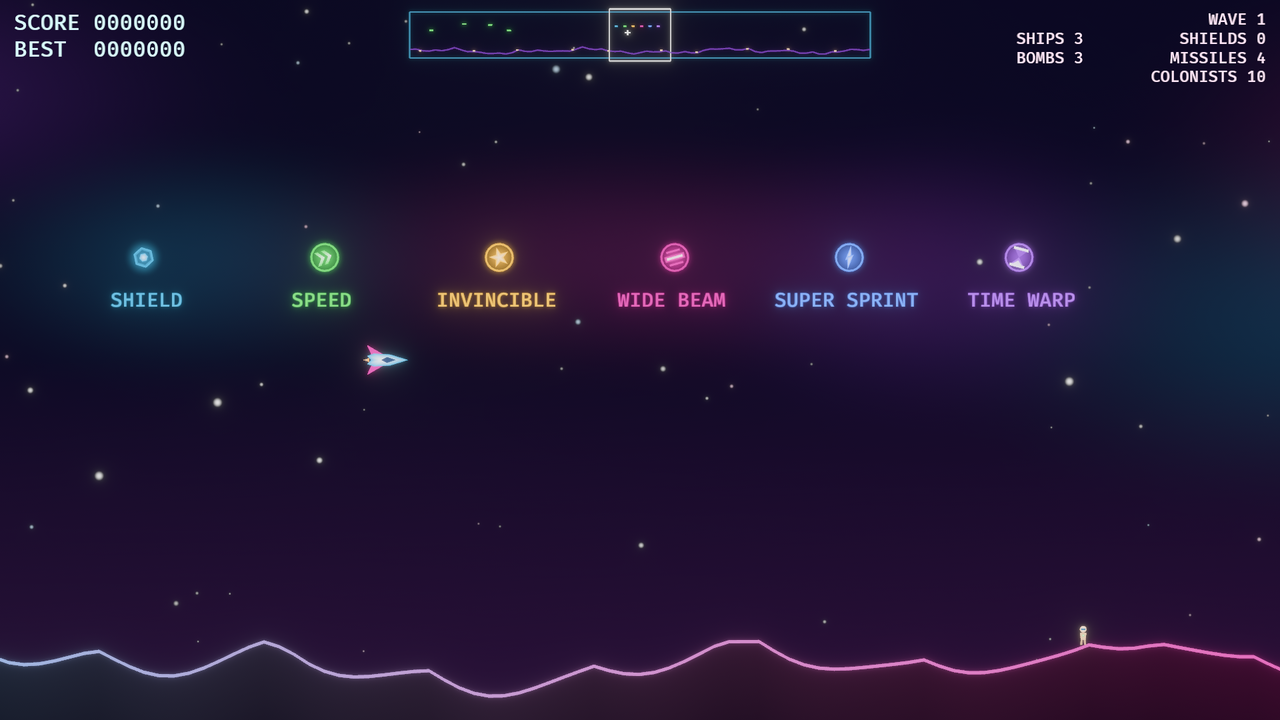
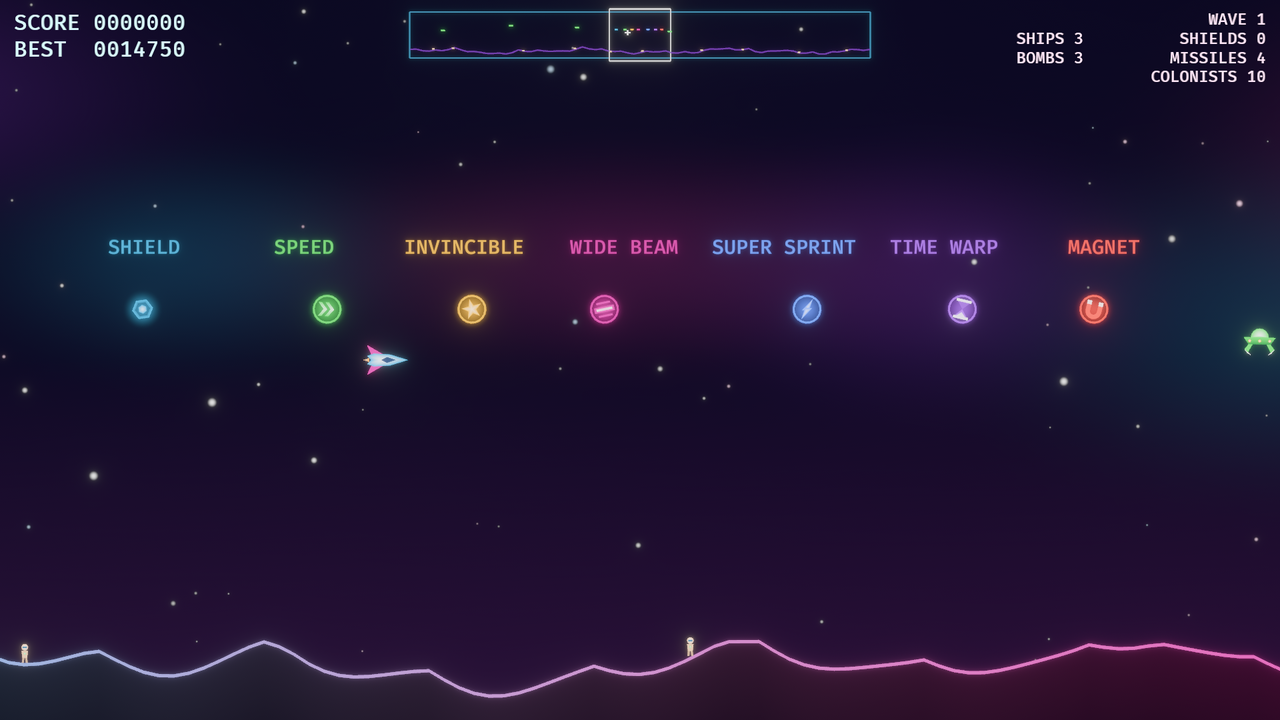
Add a magnet powerup that pulls in pickups and colonists

diff --git a/src/colonists.rs b/src/colonists.rs
@@ -77,6 +77,9 @@ pub fn update_colonists(
     let set_down_each = SET_DOWN_POINTS * aboard.min(CARRY_BONUS_MAX);
     let mut landed = 0;
     let mut carried = 0;
+    let magnet = ps.alive && game.power_on(Power::Magnet);
+    let ship = ps.pos;
+    let in_reach = |p: Vec2| magnet && delta(p, ship).length() < MAGNET_REACH;
     for (e, mut c, mut pos, mut tf) in &mut q {
         c.t += dt;
         if c.claimed_by.is_some_and(|h| enemies.get(h).is_err()) {
@@ -95,9 +98,18 @@ pub fn update_colonists(
                 tf.scale.x = c.dir;
             }
             CState::Abducted(h) => match enemies.get(h) {
-                Ok(hpos) => {
+                Ok(hpos) if !in_reach(pos.0) => {
                     pos.0 = hpos.0 + Vec2::new(0.0, -24.0);
                     tilt = (c.t * 14.0).sin() * 0.25;
+                }
+                Ok(_) => {
+                    // Snatched from the Harvester by the magnet; it then pulls them in.
+                    c.state = CState::Falling;
+                    c.claimed_by = None;
+                    c.fall_from = pos.0.y;
+                    c.vy = 0.0;
+                    fx.write(Fx::new(pos.0, C_RED, FxKind::Rescue));
+                    sfx.write(Sfx::Rescue);
                 }
                 Err(_) => {
                     // The captor was destroyed: start falling.
@@ -108,8 +120,19 @@ pub fn update_colonists(
                 }
             },
             CState::Falling => {
-                c.vy = (c.vy - 420.0 * dt).max(-FALL_SPEED);
-                pos.0.y += c.vy * dt;
+                if in_reach(pos.0) {
+                    // Pulled straight at the ship; if the magnet runs out, the fall starts
+                    // again from here.
+                    let to_ship = delta(pos.0, ps.pos);
+                    let step =
+                        to_ship.normalize_or_zero() * (MAGNET_PULL * dt).min(to_ship.length());
+                    pos.0 = Vec2::new(wrap(pos.0.x + step.x), pos.0.y + step.y);
+                    c.vy = 0.0;
+                    c.fall_from = pos.0.y;
+                } else {
+                    c.vy = (c.vy - 420.0 * dt).max(-FALL_SPEED);
+                    pos.0.y += c.vy * dt;
+                }
                 tilt = c.t * 5.0;
                 if ps.alive && delta(pos.0, ps.pos).length() < 30.0 {
                     c.state = CState::Carried;
@@ -270,6 +293,43 @@ mod tests {
         step(&mut w);
         assert_eq!(state(&w, e), Some(CState::Falling));
         assert_eq!(w.get::<Colonist>(e).unwrap().fall_from, 120.0);
+    }
+
+    #[test]
+    fn a_magnet_snatches_a_colonist_and_pulls_them_in_but_leaves_walkers() {
+        let mut w = world(Vec2::new(X, 400.0));
+        w.resource_mut::<Game>().grant_power(Power::Magnet);
+        w.insert_resource(Time::<()>::default());
+        let harvester = Enemy {
+            kind: crate::enemies::Kind::Harvester,
+            elite: false,
+            hp: 1,
+            radius: 20.0,
+            warp: 0.0,
+            t: 0.0,
+            fire_cd: 9.0,
+            ai: crate::enemies::Ai::Rise,
+            target: None,
+            aim: Vec2::ZERO,
+            timer: 0.0,
+            hit: 0.0,
+        };
+        let captor = w.spawn((harvester, Pos(Vec2::new(X, 224.0)))).id();
+        let held = colonist(&mut w, CState::Abducted(captor), 200.0, 0.0);
+        let walker = colonist(&mut w, CState::Walking, terrain::height(X) + 9.0, 0.0);
+        step(&mut w);
+        assert_eq!(state(&w, held), Some(CState::Falling), "snatched");
+        assert_eq!(state(&w, walker), Some(CState::Walking));
+
+        // Pulled up to the ship and caught, despite gravity.
+        let mut time = Time::<()>::default();
+        for _ in 0..60 {
+            time.advance_by(std::time::Duration::from_millis(16));
+            w.insert_resource(time);
+            step(&mut w);
+        }
+        assert_eq!(state(&w, held), Some(CState::Carried));
+        assert_eq!(state(&w, walker), Some(CState::Walking));
     }
 
     #[test]

diff --git a/src/meshes.rs b/src/meshes.rs
@@ -191,6 +191,8 @@ pub struct Art {
     pub shield: Handle<Mesh>,
     /// Falling powerup capsules, indexed by `Power as usize`.
     pub power: [Handle<Mesh>; Power::COUNT],
+    /// Dashed circle around the ship showing the magnet's reach.
+    pub magnet_ring: Handle<Mesh>,
 }
 
 fn dim(c: LinearRgba, f: f32) -> LinearRgba {
@@ -515,6 +517,43 @@ fn power(p: Power) -> Mesh {
             s.poly(&[(-6.0, -7.2), (6.0, -7.2), (0.0, 0.0)], c);
             s.poly(&[(-4.5, -7.2), (4.5, -7.2), (0.0, -3.0)], w);
         }
+        // Horseshoe magnet, open end up, with white pole tips.
+        Power::Magnet => {
+            let (cy, r0, r1) = (-2.0, 3.5, 8.0);
+            let p = |a: f32, r: f32| (a.cos() * r, cy + a.sin() * r);
+            let n = 8;
+            for i in 0..n {
+                let a0 = PI + i as f32 / n as f32 * PI;
+                let a1 = PI + (i + 1) as f32 / n as f32 * PI;
+                s.quad([p(a0, r0), p(a0, r1), p(a1, r1), p(a1, r0)], [c, c, c, c]);
+            }
+            for (x0, x1) in [(-r1, -r0), (r0, r1)] {
+                s.quad([(x0, cy), (x1, cy), (x1, 4.0), (x0, 4.0)], [c, c, c, c]);
+                s.quad([(x0, 4.0), (x1, 4.0), (x1, 8.0), (x0, 8.0)], [w, w, w, w]);
+            }
+        }
+    }
+    s.build()
+}
+
+/// Dashed circle of radius `MAGNET_REACH`, drawn around the ship while the magnet is on.
+fn magnet_ring() -> Mesh {
+    const DASHES: usize = 40;
+    let c = dim(C_RED, 0.35);
+    let mut s = Shape::default();
+    for i in 0..DASHES {
+        let a0 = i as f32 / DASHES as f32 * TAU;
+        let a1 = a0 + 0.55 * TAU / DASHES as f32;
+        let p = |a: f32, r: f32| (a.cos() * r, a.sin() * r);
+        s.quad(
+            [
+                p(a0, MAGNET_REACH - 1.5),
+                p(a0, MAGNET_REACH + 1.5),
+                p(a1, MAGNET_REACH + 1.5),
+                p(a1, MAGNET_REACH - 1.5),
+            ],
+            [c, c, c, c],
+        );
     }
     s.build()
 }
@@ -581,5 +620,6 @@ pub fn setup_art(
         stalker,
         shield: meshes.add(shield()),
         power: Power::ALL.map(|p| meshes.add(power(p))),
+        magnet_ring: meshes.add(magnet_ring()),
     });
 }

diff --git a/src/player.rs b/src/player.rs
@@ -21,6 +21,10 @@ pub struct Player {
 #[derive(Component)]
 pub struct Flame;
 
+/// The dashed circle around the ship showing the magnet's reach.
+#[derive(Component)]
+pub struct MagnetRing;
+
 /// A snapshot of the ship that other systems (enemy AI, camera, colonists) read, so they do not
 /// need to query the player entity.
 #[derive(Resource)]
@@ -110,6 +114,45 @@ pub fn spawn_player(commands: &mut Commands, art: &Art, pos: Vec2, facing: f32, 
             Transform::from_xyz(-15.0, 0.0, -0.1),
         )],
     ));
+}
+
+/// Shows the magnet's reach while it is on: a slowly turning, gently pulsing dashed circle that
+/// blinks in the magnet's last seconds, like its HUD timer. It is its own entity rather than a
+/// child of the ship, so the ship's flip when it turns does not squash it.
+pub fn show_magnet_ring(
+    time: Res<Time>,
+    game: Res<Game>,
+    ps: Res<PlayerState>,
+    art: Res<Art>,
+    mut commands: Commands,
+    mut q: Query<(&mut Pos, &mut Visibility, &mut Transform), With<MagnetRing>>,
+) {
+    let left = game.powers[Power::Magnet as usize];
+    let t = time.elapsed_secs();
+    let blink_off = left < POWER_WARN && (t * 6.0).fract() < 0.5;
+    if q.is_empty() {
+        commands.spawn((
+            MagnetRing,
+            GameEntity,
+            Pos(ps.pos),
+            Mesh2d(art.magnet_ring.clone()),
+            MeshMaterial2d(art.mat.clone()),
+            // Just in front of the terrain, behind everything else.
+            Transform::from_xyz(0.0, ps.pos.y, Z_TERRAIN + 1.0),
+            Visibility::Hidden,
+        ));
+    }
+    for (mut pos, mut vis, mut tf) in &mut q {
+        pos.0 = ps.pos;
+        let on = ps.alive && left > 0.0 && !blink_off;
+        vis.set_if_neq(if on {
+            Visibility::Inherited
+        } else {
+            Visibility::Hidden
+        });
+        tf.rotation = Quat::from_rotation_z(t * 0.25);
+        tf.scale = Vec3::splat(1.0 + 0.012 * (t * 4.0).sin());
+    }
 }
 
 pub fn player_control(

diff --git a/src/pickups.rs b/src/pickups.rs
@@ -119,9 +119,15 @@ pub fn update_pickups(
 ) {
     let dt = time.delta_secs();
     let playing = *state.get() == GameState::Playing;
+    let magnet = playing && ps.alive && game.power_on(Power::Magnet);
     for (e, mut s, pos, mut vel, mut tf) in &mut q {
         s.t += dt;
-        vel.0.x = (s.t * 1.7 + s.sway).sin() * 22.0;
+        let to_ship = delta(pos.0, ps.pos);
+        if magnet && to_ship.length() < MAGNET_REACH {
+            vel.0 = to_ship.normalize_or_zero() * MAGNET_PULL;
+        } else {
+            vel.0 = Vec2::new((s.t * 1.7 + s.sway).sin() * 22.0, -SHIELD_FALL);
+        }
         // Shields spin; powerups only rock, so their symbols stay readable.
         let angle = match s.kind {
             PickupKind::Shield => s.t * 1.3,
@@ -255,6 +261,24 @@ mod tests {
         assert!(g.power_on(Power::WideBeam));
         assert!(!g.power_on(Power::Speed));
         assert_eq!(g.shields, 0);
+    }
+
+    #[test]
+    fn a_magnet_pulls_pickups_in() {
+        let mut w = world(Vec2::new(X, 300.0));
+        let near = shield(&mut w, Vec2::new(X + 200.0, 300.0));
+        let far = shield(&mut w, Vec2::new(X + MAGNET_REACH + 50.0, 300.0));
+        step(&mut w);
+        assert_eq!(
+            w.get::<Vel>(near).unwrap().0.y,
+            -SHIELD_FALL,
+            "no magnet, no pull"
+        );
+        w.resource_mut::<Game>().grant_power(Power::Magnet);
+        step(&mut w);
+        let v = w.get::<Vel>(near).unwrap().0;
+        assert!((v - Vec2::new(-MAGNET_PULL, 0.0)).length() < 0.01, "{v}");
+        assert_eq!(w.get::<Vel>(far).unwrap().0.y, -SHIELD_FALL, "out of reach");
     }
 
     #[test]

diff --git a/src/dev.rs b/src/dev.rs
@@ -6,7 +6,7 @@
 //! `STARWARDEN_DEMO_CARRY=1` instead clears the enemies, knocks three colonists loose high up,
 //! catches them, carries them for a while and sets them down together (use about 22 seconds).
 //! `STARWARDEN_DEMO_POWER=1` drops each powerup in turn near the ship, one every 6 seconds from
-//! 3 s, for the pilot to catch (use about 36 seconds). With `STARWARDEN_DEMO_GALLERY=1` as well,
+//! 3 s, for the pilot to catch (use about 42 seconds). With `STARWARDEN_DEMO_GALLERY=1` as well,
 //! it instead lines up a shield and every powerup, each named, above an idle ship.
 //! It does nothing unless the variable is set.
 
@@ -98,7 +98,7 @@ fn demo(
             let kinds = std::iter::once(PickupKind::Shield)
                 .chain(Power::ALL.into_iter().map(PickupKind::Power));
             for (i, kind) in kinds.enumerate() {
-                let at = ps.pos + Vec2::new(ps.facing * 200.0 + (i as f32 - 2.5) * 175.0, 110.0);
+                let at = ps.pos + Vec2::new(ps.facing * 240.0 + (i as f32 - 3.0) * 160.0, 110.0);
                 let name = match kind {
                     PickupKind::Shield => {
                         spawn_shield(&mut commands, &art, &mut rng, at);

diff --git a/src/state.rs b/src/state.rs
@@ -73,16 +73,18 @@ pub enum Power {
     WideBeam,
     SuperSprint,
     TimeWarp,
+    Magnet,
 }
 
 impl Power {
-    pub const COUNT: usize = 5;
+    pub const COUNT: usize = 6;
     pub const ALL: [Power; Power::COUNT] = [
         Power::Speed,
         Power::Invincible,
         Power::WideBeam,
         Power::SuperSprint,
         Power::TimeWarp,
+        Power::Magnet,
     ];
 
     pub fn name(self) -> &'static str {
@@ -92,6 +94,7 @@ impl Power {
             Power::WideBeam => "WIDE BEAM",
             Power::SuperSprint => "SUPER SPRINT",
             Power::TimeWarp => "TIME WARP",
+            Power::Magnet => "MAGNET",
         }
     }
 
@@ -102,6 +105,7 @@ impl Power {
             Power::WideBeam => C_MAGENTA,
             Power::SuperSprint => C_BLUE,
             Power::TimeWarp => C_VIOLET,
+            Power::Magnet => C_RED,
         }
     }
 

diff --git a/src/consts.rs b/src/consts.rs
@@ -95,6 +95,11 @@ pub const SUPER_SPRINT_BOOST: f32 = 2.0;
 pub const WIDE_BEAM: f32 = 4.0;
 /// Speed enemies and their shots run at during a time warp.
 pub const TIME_WARP: f32 = 0.4;
+/// Distance within which the magnet pulls in falling pickups and colonists, and snatches
+/// colonists from Harvesters.
+pub const MAGNET_REACH: f32 = 300.0;
+/// Speed at which the magnet pulls things toward the ship.
+pub const MAGNET_PULL: f32 = 420.0;
 /// Seconds before the end of a powerup when its HUD timer starts to blink.
 pub const POWER_WARN: f32 = 2.0;
 

diff --git a/src/main.rs b/src/main.rs
@@ -181,6 +181,7 @@ fn main() {
             (fx::spawn_fx, fx::update_particles, fx::update_popups)
                 .chain()
                 .run_if(simulating),
+            player::show_magnet_ring,
             world::sync_transforms,
             fx::draw_glows,
             world::camera_shake,

diff --git a/src/enemies.rs b/src/enemies.rs
@@ -562,6 +562,7 @@ mod tests {
             stalker: pair(),
             shield: Handle::default(),
             power: Default::default(),
+            magnet_ring: Handle::default(),
         }
     }
 

diff --git a/README.md b/README.md
@@ -52,8 +52,13 @@ and their seconds left are shown under the score. They are lost with the ship.
 | WIDE BEAM    | three bars      | magenta | a much taller laser that passes through enemies     |
 | SUPER SPRINT | lightning bolt  | blue    | sprint never runs out and is faster still           |
 | TIME WARP    | hourglass       | violet  | enemies and their shots move at 40% speed           |
+| MAGNET       | horseshoe       | red     | pulls in nearby pickups and colonists (see below)   |
 
-![A shield and the five powerups, each named](docs/powerups.png)
+The magnet's reach is shown as a dashed red circle around the ship. Falling shields, powerups
+and colonists inside it are pulled straight to the ship, and a Harvester carrying a colonist
+inside it loses them to the magnet. Colonists walking on the ground are left alone.
+
+![A shield and the six powerups, each named](docs/powerups.png)
 
 | | |
 | --- | --- |
@@ -242,7 +247,7 @@ sets the seconds between screenshots (default 2.5), `STARWARDEN_DEMO_VOID=1` for
 phase, `STARWARDEN_DEMO_GALLERY=1` lines up every enemy type, and `STARWARDEN_DEMO_CARRY=1`
 catches three falling colonists, carries them and sets them down together (use about 22 seconds).
 `STARWARDEN_DEMO_POWER=1` drops each powerup in turn above the ship, one every 6 seconds (use
-about 36 seconds); together with `STARWARDEN_DEMO_GALLERY=1` it lines up a shield and every
+about 42 seconds); together with `STARWARDEN_DEMO_GALLERY=1` it lines up a shield and every
 powerup, each named, 7 seconds in. The output folder must already exist.
 
 The images in `docs/` were made this way. The animation is the frames of a run at 0.08 s

diff --git a/EXTRA.md b/EXTRA.md
@@ -3,6 +3,7 @@
 - [x] 1 Shields (drop from some defeated enemies, need to be picked up before they fall, can carry up to 9)
 - [x] 2 Sprint (right shoulder button, shift key)
 - [x] 3 Powerups (Speed, invincibility, fatter beam, super sprint, time warp)
+  - [x] Magnet, pulls in powerups and colonists
 
 ## Player and weapons
 
@@ -10,7 +11,8 @@
   or go too long without a kill.
 - 5 Overheat laser: holding fire builds heat; letting it cool just before the limit gives a
   short burst of stronger shots.
-- 6 Tractor beam: hold a button to pull a falling colonist or a dropped pickup toward the ship.
+- ~~6 Tractor beam: hold a button to pull a falling colonist or a dropped pickup toward the
+  ship.~~ Covered by the magnet powerup, with no extra button.
 - 7 Wingman drone: a small helper that follows the ship and shoots; lost when you are hit.
 - 8 Charged shot: hold fire with no targets to charge one piercing beam across the screen.
 - 9 Decoy flare: drop a beacon that draws Wraiths and Stalkers away for a few seconds.

diff --git a/docs/TUTORIAL.md b/docs/TUTORIAL.md
@@ -145,6 +145,10 @@ Powerups are just timers in `Game::powers`, one per `Power`, so several can run 
 flight model for speed and super sprint, `fire_weapons` for the wide beam, `player_collisions`
 for invincibility. Time warp is a single number, `game.enemy_time_scale()`, which `enemy_ai`,
 `update_shots` and `integrate` multiply into their time step for enemies and enemy shots only.
+The magnet lives where the things it pulls are moved: `update_pickups` and `update_colonists`
+steer anything within `MAGNET_REACH` straight at the ship, and `update_colonists` also turns a
+colonist held by a Harvester back into a falling one. The Harvester's AI already copes with
+losing its colonist. `show_magnet_ring` draws the reach as a dashed circle that follows the ship.
 
 ## Enemies
 
